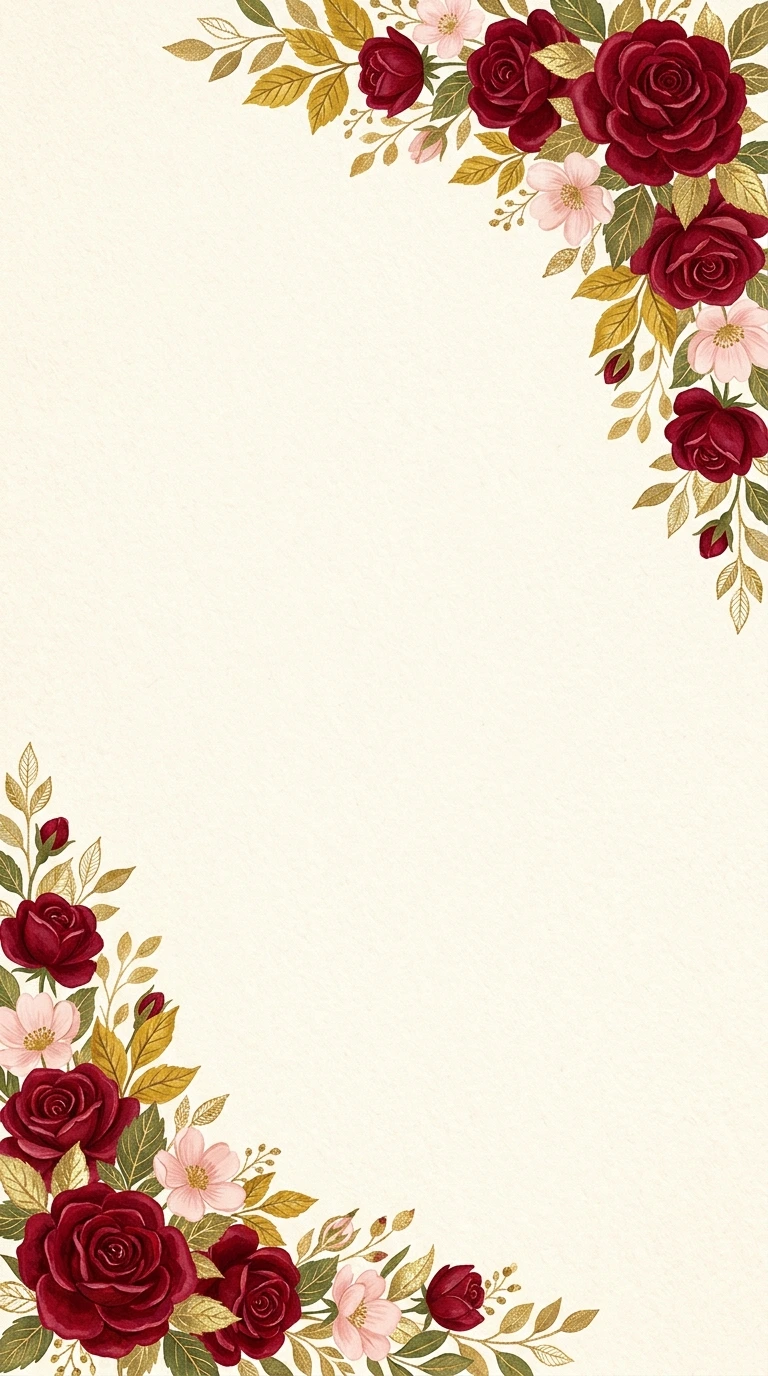
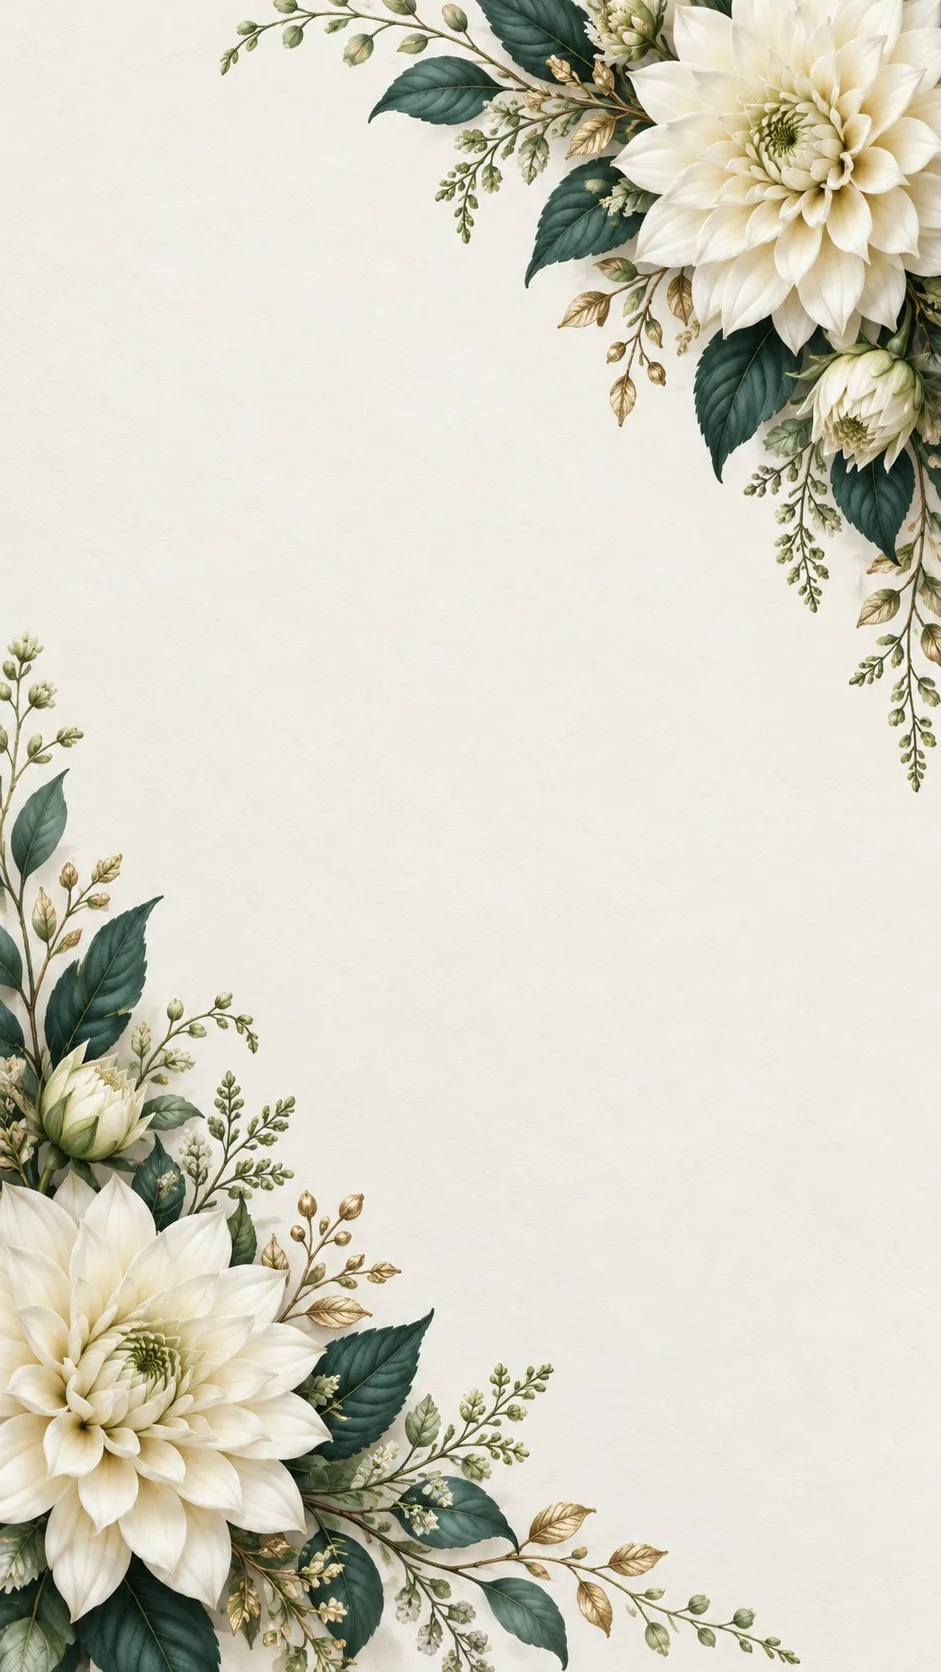
Update bride name to Sana Fatma, restore OG template flowers, balance closing font sizes, use 'and' conjunction, split Patna to new line, and update invitation note

diff --git a/css/invitation.css b/css/invitation.css
@@ -10,7 +10,8 @@
 .schedule-section{padding-top:95px;padding-bottom:90px}.timeline{list-style:none;padding:15px 0 0;margin:0 auto;max-width:355px;position:relative}.timeline:before{content:'';position:absolute;left:32%;top:25px;bottom:39px;width:1px;background:color-mix(in srgb,var(--accent) 32%,transparent)}.timeline li{display:grid;grid-template-columns:26% 12% 62%;align-items:center;min-height:96px;text-align:left;position:relative}.timeline time{font-size:24px;text-align:right;white-space:nowrap}.timeline .event-marker{display:block;width:26px;height:26px;background:var(--timeline-flower) center/contain no-repeat;transform:rotate(-12deg);margin:auto;position:relative;z-index:1;transition:transform .6s ease}.timeline li.is-current .event-marker{transform:rotate(12deg) scale(1.7)}.timeline .event-name{font-size:20px;line-height:1.4;padding-left:8px}.schedule-note{font-size:14px;margin:32px auto 0;max-width:290px}
 /* Event name and its address sit on separate lines. */
 .timeline .event-title,.timeline .event-place{display:block}
-.timeline .event-place{font-size:.8em;opacity:.8}
+.timeline .event-place{font-size:.8em;opacity:.8;white-space:pre-line}
+.intro .invitation-note.para-gap{margin-top:16px}
 .venue-section{padding:75px 30px 65px}.venue-scene{height:290px;width:100%;object-fit:cover;object-position:50% 78%;margin:0 0 30px;border-radius:48% 48% 0 0;display:block}.venue-name{font-size:26px;line-height:1.3;font-weight:400;margin:0 15px 12px}.venue-address{font-style:normal;font-size:16px;max-width:290px;margin:0 auto 22px}.venue-caption{font-size:12px;font-style:italic;margin:-19px 0 30px;opacity:.75}.location-frame{position:relative;border:1px solid var(--metal);outline:1px solid color-mix(in srgb,var(--metal) 45%,transparent);outline-offset:6px;margin:18px 10px 0;padding:38px 26px;border-radius:100px 100px 3px 3px}.location-frame .script{font-size:42px}.actions{display:grid;gap:12px;margin:28px auto 0;max-width:260px}.action{display:block;border:1px solid var(--accent);padding:13px 20px;background:var(--accent);color:white;text-decoration:none;letter-spacing:.14em;text-transform:uppercase;font-size:11px;border-radius:30px;line-height:1.5;text-align:center;transition:transform .2s,filter .2s}.action:hover{filter:brightness(1.1);transform:translateY(-2px)}.action.secondary{color:var(--accent);background:transparent}.travel-note{font-size:14px;max-width:310px;margin:32px auto 0}
 .etiquette{padding:75px 45px 65px;min-height:360px;display:flex;flex-direction:column;justify-content:center}.etiquette article+article{margin-top:65px}.etiquette .script{margin-bottom:20px}.etiquette p{max-width:300px;margin:auto;line-height:1.65}.card-section{padding:55px 24px 65px}.invitation-card-wrapper{max-width:440px;margin:0 auto;border:1px solid var(--metal);outline:1px solid color-mix(in srgb,var(--metal) 35%,transparent);outline-offset:6px;border-radius:24px;padding:12px;background:color-mix(in srgb,var(--paper) 94%,white);box-shadow:0 8px 24px #241b250d}.invitation-card-img{width:100%;height:auto;display:block;border-radius:14px;box-shadow:0 2px 10px #0000000f}@media(max-width:360px){.card-section{padding-left:18px;padding-right:18px}.invitation-card-wrapper{padding:8px;border-radius:18px}.invitation-card-img{border-radius:10px}}.closing{padding:55px 30px 90px;text-align:center}.closing .script{font-size:48px;margin-bottom:12px}.closing p{font-size:12px;letter-spacing:.12em}.reopen{border:0;border-bottom:1px solid currentColor;background:none;color:var(--ink);font-size:12px;padding:8px;margin-top:20px}.media-controls{position:fixed;bottom:max(18px,env(safe-area-inset-bottom));right:max(18px,calc((100vw - 560px)/2 + 18px));z-index:20;display:flex;gap:8px}.media-button{border:1px solid #fff7;box-shadow:0 3px 14px #0002;border-radius:30px;background:var(--accent);color:#fff;padding:12px 15px;font-size:12px;min-height:44px}.status{position:fixed;bottom:80px;left:50%;transform:translateX(-50%);max-width:90%;border-radius:5px;background:var(--ink);color:#fff;padding:10px 18px;font-size:14px;z-index:110}
 .reveal{opacity:1;transform:none}.reveal.arriving{animation:rise .85s ease both}.theme-royal-rose .location-frame{border-radius:24px}.theme-royal-rose .venue-scene{border-radius:150px 150px 0 0}.theme-petrol-dahlia .location-frame{border-radius:3px}.theme-petrol-dahlia .venue-scene{border-radius:150px 150px 0 0}.theme-cobalt-iris .location-frame{border-radius:140px 140px 6px 6px}.theme-cobalt-iris .venue-scene{border-radius:50%}.theme-cinnamon-camellia .location-frame{border-radius:20px}.theme-cinnamon-camellia .venue-scene{border-radius:46% 46% 4px 4px}.theme-cinnamon-camellia .date{letter-spacing:.1em}.theme-aubergine-magnolia .intro .script{max-width:290px}
@@ -77,10 +78,10 @@ body{font-size:20px;line-height:1.65}.names{font-family:"Edwardian Script ITC",P
 .closing-copy{width:100%;max-width:350px;text-shadow:none}
 .closing p{letter-spacing:normal}
 .closing .closing-eyebrow{font-size:11px;font-weight:600;letter-spacing:.2em;text-transform:uppercase;margin:0 0 27px;color:var(--ink)}
-.closing-title{font:400 clamp(48px,12vw,66px)/1.04 "Cormorant Garamond",Georgia,serif;margin:0;letter-spacing:-.035em}
+.closing-title{font:400 clamp(36px,9vw,44px)/1.12 "Cormorant Garamond",Georgia,serif;margin:0;letter-spacing:-.02em}
 .closing-title em{display:inline;font:inherit;font-style:normal;letter-spacing:inherit;padding:0}
 .closing-rule{width:45px;height:1px;background:var(--closing-line);margin:17px auto 24px;opacity:.8}
-.closing .closing-names{font:400 clamp(48px,12vw,65px)/1.25 "Edwardian Script ITC",Parisienne,cursive;margin:0 auto 9px;overflow-wrap:anywhere;max-width:100%}
+.closing .closing-names{font:400 clamp(48px,12vw,60px)/1.2 "Edwardian Script ITC",Parisienne,cursive;margin:0 auto 9px;overflow-wrap:anywhere;max-width:100%}
 .closing-names span{display:inline}.closing-names i{font:400 .6em/1 "Cormorant Garamond",serif;margin:0 .3em}
 .closing .closing-date{font-size:13px;letter-spacing:.18em;margin:0;text-transform:uppercase}
 .closing .closing-note{font-size:18px;line-height:1.5;margin:26px 0 23px}
@@ -98,8 +99,8 @@ body{font-size:20px;line-height:1.65}.names{font-family:"Edwardian Script ITC",P
 .theme-royal-rose .closing-rsvp{border-radius:30px}
 .theme-petrol-dahlia .closing-rsvp{border-radius:2px}
 .theme-cinnamon-camellia .closing-rsvp{border-radius:8px}
-@media(max-width:400px){.closing-scene{padding:80px 34px 220px;min-height:790px}.closing-title{font-size:51px}.closing .closing-eyebrow{font-size:10px;letter-spacing:.14em}.closing .closing-names{font-size:38px}}
-@media(max-width:340px){.closing-scene{padding-left:26px;padding-right:26px}.closing-title{font-size:46px}.closing .closing-names{font-size:33px}}
+@media(max-width:400px){.closing-scene{padding:80px 34px 220px;min-height:790px}.closing-title{font-size:38px}.closing .closing-eyebrow{font-size:10px;letter-spacing:.14em}.closing .closing-names{font-size:50px}}
+@media(max-width:340px){.closing-scene{padding-left:26px;padding-right:26px}.closing-title{font-size:34px}.closing .closing-names{font-size:44px}}
 
 .closing .music-credit{font-size:12px;line-height:1.7;margin:26px auto 0;max-width:280px;color:var(--closing-line)}
 .music-credit a{text-underline-offset:3px}.media-controls{max-width:calc(100vw - 24px);flex-wrap:wrap;justify-content:flex-end}

diff --git a/js/invitation.js b/js/invitation.js
@@ -50,7 +50,7 @@
               <h2 class="script couple-honor-name">${text(data.couple.groomFull || data.couple.first)}</h2>
               <p class="member-parentage">${text(data.couple.groomParents || '')}</p>
             </div>
-            <p class="couple-conjunction" aria-label="with">with</p>
+            <p class="couple-conjunction" aria-label="and">and</p>
             <div class="couple-side">
               <h2 class="script couple-honor-name">${text(data.couple.brideFull || data.couple.second)}</h2>
               <p class="member-parentage">${text(data.couple.brideParents || '')}</p>
@@ -60,12 +60,12 @@
         ` : ''}
         <div class="rule" aria-hidden="true"></div>
         <p class="reveal salutation-heading">${text(data.wedding.salutation)}</p>
-        <p class="invitation-note reveal">${text(data.wedding.invitationNote)}</p>
+        ${String(data.wedding.invitationNote || '').split(/\n\s*\n/).map((para, i) => `<p class="invitation-note reveal${i > 0 ? ' para-gap' : ''}">${text(para).replace(/\n/g, '<br>')}</p>`).join('')}
       </section>
       <section class="paper-section countdown-section torn" aria-labelledby="countdown-title"><h2 class="script" id="countdown-title">${text(data.wedding.countdownTitle || 'Until our celebration begins')}</h2>
         <div class="countdown" id="countdown" role="timer" aria-label="Time until the wedding"><div><strong data-count="days">00</strong><span>Days</span></div><div><strong data-count="hours">00</strong><span>Hours</span></div><div><strong data-count="minutes">00</strong><span>Minutes</span></div><div><strong data-count="seconds">00</strong><span>Seconds</span></div></div><p class="countdown-note" id="countdown-note">${text(data.wedding.longDate)}</p>
       </section>
-      <section class="paper-section floral schedule-section" aria-labelledby="schedule-title"><h2 class="script reveal" id="schedule-title">${text(data.wedding.scheduleTitle || 'Wedding Celebrations')}</h2><ol class="timeline">${data.schedule.map(event=>{const[evName,...evAddr]=String(event.title).split('·');return `<li class="reveal"><time>${text(event.time)}</time><span class="event-marker" aria-hidden="true"></span><span class="event-name"><span class="event-title">${text(evName.trim())}</span>${evAddr.length?`<span class="event-place">${text(evAddr.join('·').trim())}</span>`:''}</span></li>`}).join('')}</ol>${data.wedding.scheduleNote ? `<p class="schedule-note">${text(data.wedding.scheduleNote)}</p>` : ''}</section>
+      <section class="paper-section floral schedule-section" aria-labelledby="schedule-title"><h2 class="script reveal" id="schedule-title">${text(data.wedding.scheduleTitle || 'Wedding Celebrations')}</h2><ol class="timeline">${data.schedule.map(event=>{const[evName,...evAddr]=String(event.title).split('·');return `<li class="reveal"><time>${text(event.time)}</time><span class="event-marker" aria-hidden="true"></span><span class="event-name"><span class="event-title">${text(evName.trim())}</span>${evAddr.length?`<span class="event-place">${text(evAddr.join('·').trim()).replace(/\n/g, '<br>')}</span>`:''}</span></li>`}).join('')}</ol>${data.wedding.scheduleNote ? `<p class="schedule-note">${text(data.wedding.scheduleNote)}</p>` : ''}</section>
       <section class="paper-section venue-section torn" aria-labelledby="venue-title">
         <h2 class="script reveal" id="venue-title">Venue</h2>
         <img class="venue-scene reveal" src="./media/venue-shangri-la.jpg" alt="Shangri-La Palace, Patna" loading="lazy">
@@ -92,11 +92,9 @@
         <div class="closing-scene">
           <img class="closing-art" src="${data.media.heroPoster ? text(safeURL(data.media.heroPoster)) : asset('hero-first.webp')}" alt="" width="720" height="1280" loading="lazy" decoding="async">
           <div class="closing-copy reveal">
-            <p class="closing-eyebrow">With warm blessings</p>
             <h2 class="closing-title" id="closing-title">Awaiting your<br>gracious presence</h2>
             <div class="closing-rule" aria-hidden="true"></div>
             <p class="closing-names">${data.couple.closingNames ? `<span>${text(data.couple.closingNames)}</span>` : `<span>${text(data.couple.first)}</span><i>&amp;</i><span>${text(data.couple.second)}</span>`}</p>
-            <p class="closing-date">${text(data.wedding.dateLabel)}</p>
           </div>
         </div>
         <div class="closing-colophon">

diff --git a/wedding-data.js b/wedding-data.js
@@ -7,7 +7,7 @@ window.WEDDING_DATA = {
     "second": "Sana",
     "closingNames": "Raza Family",
     "groomFull": "Danish Raza Khan",
-    "brideFull": "Sana Fatima",
+    "brideFull": "Sana Fatma",
     "groomParents": "son of Farha & Sajid Raza Khan",
     "brideParents": "daughter of Syeda Fatima & Md Nasim Khan",
     "heroNote": "",
@@ -19,8 +19,8 @@ window.WEDDING_DATA = {
     "longDate": "Monday, 21 December 2026",
     "dateISO": "2026-12-21T19:00:00+05:30",
     "endISO": "2026-12-21T23:30:00+05:30",
-    "salutation": "Dear Family & Friends,",
-    "invitationNote": "With the grace of Almighty Allah, we cordially invite you to share in the joy and blessings of the Wedding Reception of our beloved children Danish Raza Khan and Sana Fatima. Your gracious presence, heartfelt prayers, and warm wishes will make our celebration truly blessed and memorable.",
+    "salutation": "Dear Family and Friends,",
+    "invitationNote": "With the grace and countless blessings of Almighty Allah, we are delighted to invite you to celebrate the Wedding Reception of our beloved children Danish & Sana.\n\nAs they embark upon a beautiful journey of love, companionship, and togetherness, we would be honoured to have you join us on this joyous occasion.\n\nYour gracious presence, heartfelt prayers, and warm wishes will add to the happiness of this special day and make our celebration truly memorable.",
     "scheduleTitle": "Wedding Celebrations",
     "scheduleNote": "",
     "countdownTitle": "Until the celebration begins",
@@ -33,11 +33,11 @@ window.WEDDING_DATA = {
   },
   "schedule": [
     {
-      "title": "Nikah · Al-Masjid an-Nabawī, Medina",
+      "title": "Nikah · Al-Masjid an-Nabawī,\nMedina",
       "time": "11 Dec"
     },
     {
-      "title": "Reception · Shangri-La Palace, Patna",
+      "title": "Reception · Shangri-La Palace,\nPatna",
       "time": "21 Dec"
     }
   ],

diff --git a/index.html b/index.html
@@ -4,7 +4,7 @@
   <meta charset="utf-8">
   <meta name="viewport" content="width=device-width,initial-scale=1">
   <meta name="theme-color" content="#7d192e">
-  <meta name="description" content="You are cordially invited by the parents &amp; families to celebrate the wedding reception of Danish Raza Khan and Sana Fatima at Shangri-La Palace, Patna.">
+  <meta name="description" content="You are cordially invited by the parents &amp; families to celebrate the wedding reception of Danish Raza Khan and Sana Fatma at Shangri-La Palace, Patna.">
   <title>Danish &amp; Sana | Wedding Reception Invitation</title>
   <link rel="preload" href="./fonts/EdwardianScriptITC.ttf" as="font" type="font/ttf" crossorigin>
   <link rel="preload" href="./fonts/Parisienne-Regular.ttf" as="font" type="font/ttf" crossorigin>
@@ -20,7 +20,7 @@
   <div id="app"></div>
   <noscript>
     <main style="padding:40px;text-align:center">
-      <h1>Danish Raza Khan &amp; Sana Fatima</h1>
+      <h1>Danish Raza Khan &amp; Sana Fatma</h1>
       <p>Grand Reception: Monday, 21 December 2026, 7:00 PM</p>
       <p>Shangri-La Palace, Bailey Road, Patna</p>
       <p>Please enable JavaScript to open the illustrated invitation.</p>
